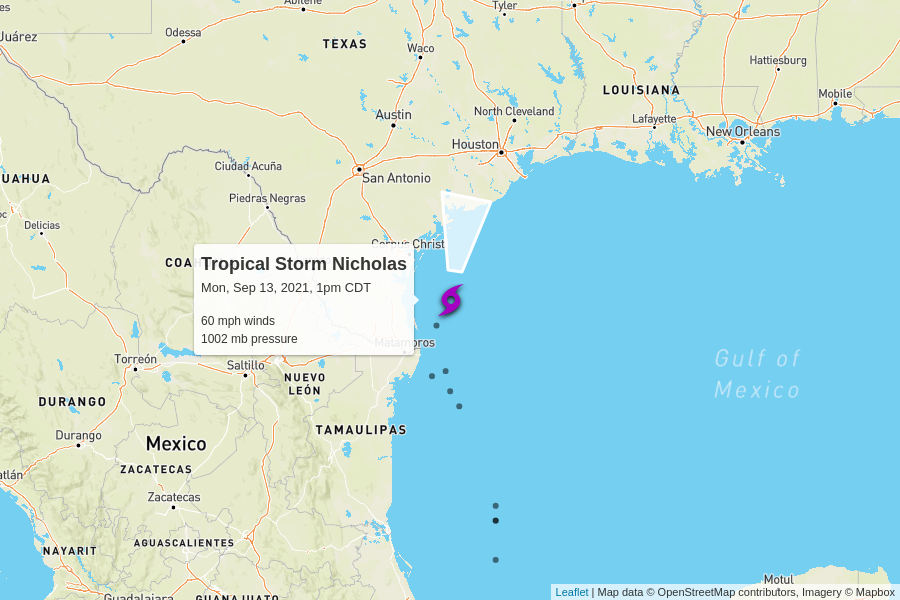
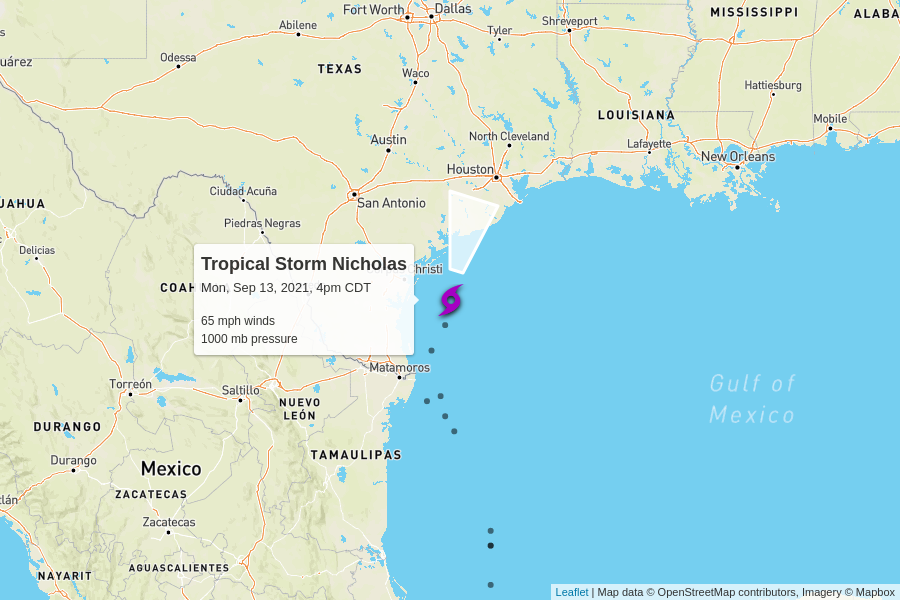
automatic update

diff --git a/docs/index.html b/docs/index.html
@@ -100,7 +100,7 @@
         <td colspan="6" class="storm category-0" >
           <h2>
             Tropical Storm Nicholas
-            <p class="updated">last updated <span data-time>2021-09-13T18:00:00.000Z</span></p>
+            <p class="updated">last updated <span data-time>2021-09-13T21:00:00.000Z</span></p>
           </h2>
         </td>
       </tr>
@@ -115,12 +115,12 @@
       </tr>
       <tr>
         <td class="spacer"></td>
-        <td>60 mph</td>
-        <td>1002 mb</td>
+        <td>65 mph</td>
+        <td>1000 mb</td>
         <td>
-          12 mph to the north
+          12 mph to the north-northeast
           <br/>
-          <span style="display: inline-block; font-size: 1.5em; transform: rotate(10deg);">↑</span>
+          <span style="display: inline-block; font-size: 1.5em; transform: rotate(15deg);">↑</span>
         </td>
         <td><a href="https://raw.githubusercontent.com/mgwalker/atlantic-hurricanes/main/data/csv/AL142021.csv">AL142021.csv</a></td>
         <td><a href="https://www.nhc.noaa.gov/archive/2021/NICHOLAS.shtml?">NHC advisories</a></td>
